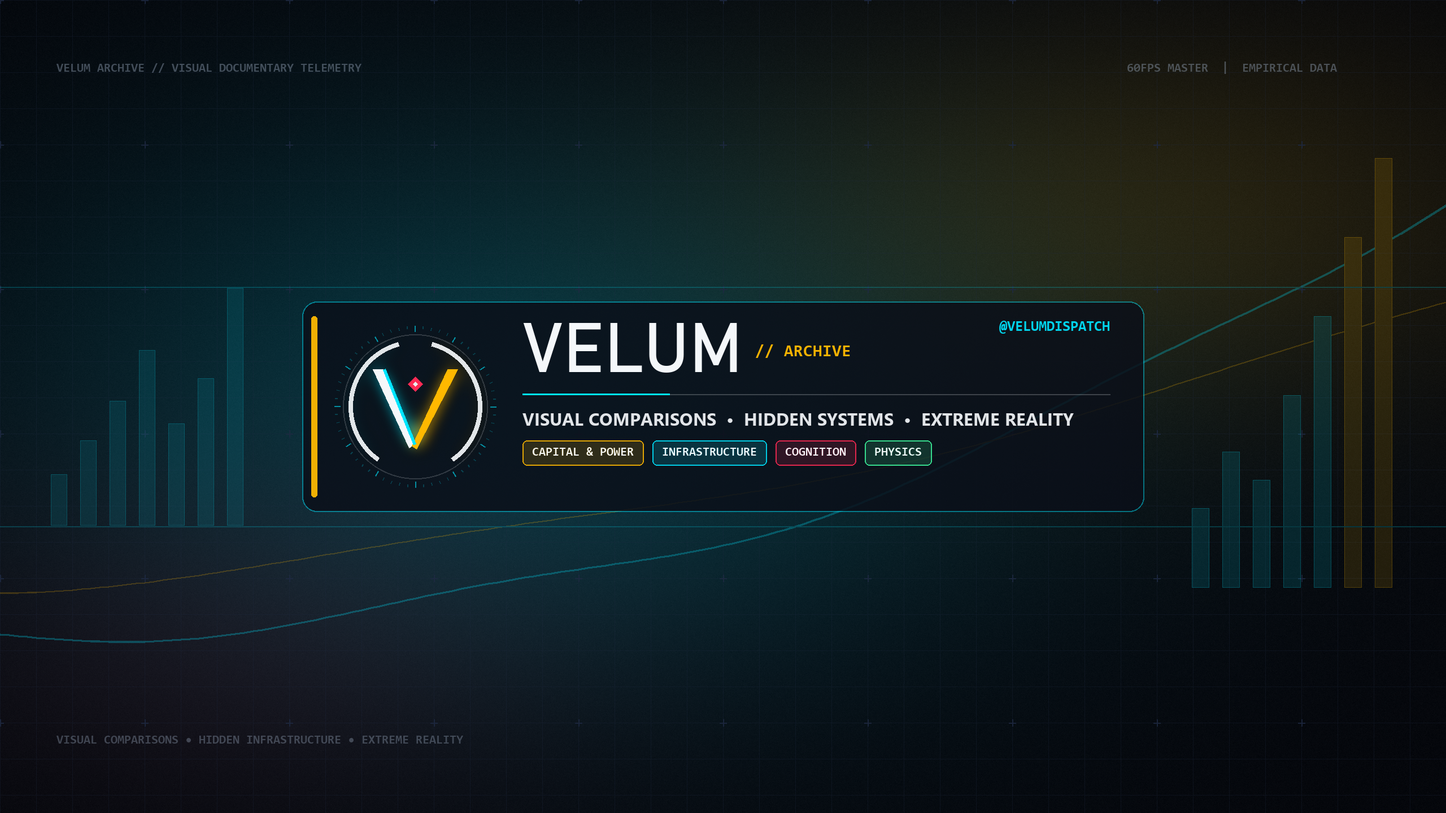
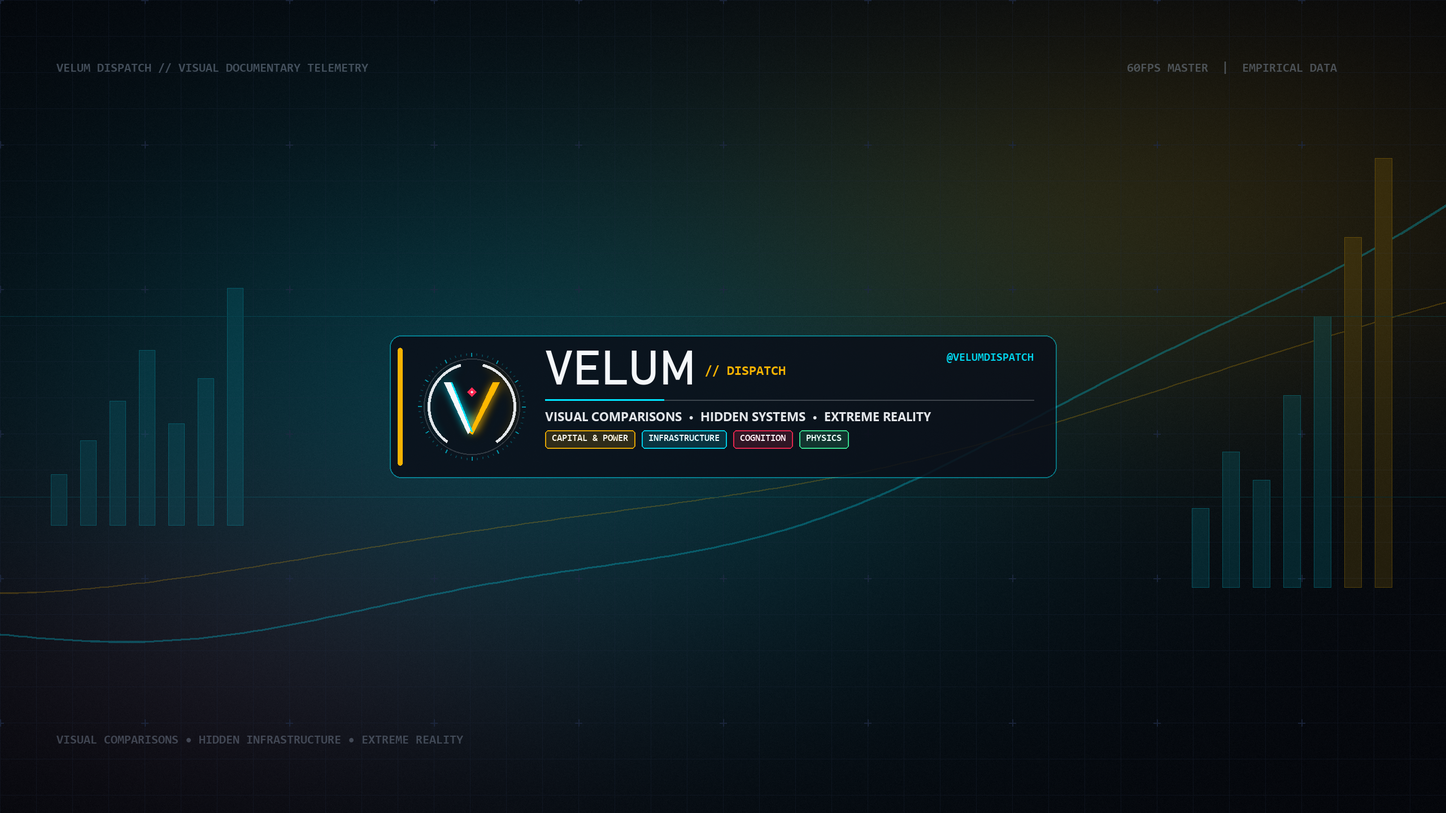
feat: rebrand to VELUM, resolve 5 CI/production bugs, add 24-topic engine & English README

Changed region(s): [[0.1875, 0.3438, 0.7812, 0.6562], [0.0625, 0.0625, 0.25, 0.0938], [0.5625, 0.625, 0.5938, 0.6562]]

diff --git a/publisher/youtube_uploader.py b/publisher/youtube_uploader.py
@@ -29,6 +29,11 @@ from core.config import (
     load_brand_config,
 )
 from core.state_db import StateDB
+from publisher.omni_seo import (
+    TARGET_CAPTION_LANGS,
+    _translate_lines_batch_free,
+    generate_video_localizations,
+)
 
 logger = get_logger("youtube_uploader")
 
@@ -150,7 +155,7 @@ def sync_channel_branding(youtube, state_db: StateDB, force: bool = False) -> Di
         "watermark_uploaded": False,
         "metadata_updated": False,
     }
-    if not force and state_db.get_meta("channel_branding_synced") == "true":
+    if not force and state_db.get_meta("channel_branding_synced") == "v2":
         return result
 
     brand = load_brand_config()
@@ -189,20 +194,41 @@ def sync_channel_branding(youtube, state_db: StateDB, force: bool = False) -> Di
             except Exception as exc:
                 logger.warning("Channel banner API insert error (%s)", exc)
 
-        # 2. Update Channel Description (Bio), Keywords, and Country (TR)
-        ch_settings["description"] = brand.get("seo_bio", "")[:990]
+        # 2. Update Channel Description (Bio), Keywords, Country (TR) & 10-Language Regional Localizations
+        bio_en = brand.get("seo_bio", "")[:990]
+        ch_title = brand.get("channel_name", "Velum Dispatch")
+        ch_settings["description"] = bio_en
         kw_list = brand.get("seo_keywords", [])
         ch_settings["keywords"] = " ".join(f'"{k}"' if " " in k else k for k in kw_list)[:490]
         ch_settings["country"] = "TR"
         ch_settings["defaultLanguage"] = "en"
         branding["channel"] = ch_settings
 
+        ch_localizations: Dict[str, Dict[str, str]] = {"en": {"title": ch_title, "description": bio_en}}
+        for lang_code in TARGET_CAPTION_LANGS:
+            if lang_code == "en":
+                continue
+            tr_bio = _translate_lines_batch_free([bio_en], lang_code)
+            ch_localizations[lang_code] = {
+                "title": ch_title,
+                "description": (tr_bio[0] if tr_bio else bio_en)[:990],
+            }
+
         youtube.channels().update(
-            part="brandingSettings",
-            body={"id": channel_id, "brandingSettings": branding},
+            part="brandingSettings,localizations",
+            body={
+                "id": channel_id,
+                "brandingSettings": branding,
+                "localizations": ch_localizations,
+            },
         ).execute()
         result["metadata_updated"] = True
-        logger.info("Applied channel brandingSettings (Banner + Bio + Keywords + Country=TR) on %s", channel_id)
+        result["channel_languages"] = list(ch_localizations.keys())
+        logger.info(
+            "Applied channel brandingSettings + %d regional language localizations on %s",
+            len(ch_localizations),
+            channel_id,
+        )
 
         # 3. Upload 150x150 RGBA Video Watermark via watermarks().set
         if watermark_path.exists():
@@ -220,8 +246,40 @@ def sync_channel_branding(youtube, state_db: StateDB, force: bool = False) -> Di
             except Exception as exc:
                 logger.warning("Channel watermark API upload error (%s)", exc)
 
+        # 4. Retro-apply 10-language regional Title & Description localizations to recent uploaded videos
+        for vid in state_db.get_all_videos()[:5]:
+            yt_id = vid.get("youtube_id")
+            if not yt_id:
+                continue
+            try:
+                v_resp = youtube.videos().list(part="snippet,localizations", id=yt_id).execute()
+                v_items = v_resp.get("items", [])
+                if not v_items:
+                    continue
+                v_snip = v_items[0]["snippet"]
+                v_snip["defaultLanguage"] = "en"
+                v_snip["defaultAudioLanguage"] = "en"
+                v_locs = generate_video_localizations(
+                    v_snip.get("title", ""), v_snip.get("description", "")
+                )
+                v_locs["en"] = {
+                    "title": v_snip.get("title", "")[:95],
+                    "description": v_snip.get("description", "")[:4900],
+                }
+                youtube.videos().update(
+                    part="snippet,localizations",
+                    body={"id": yt_id, "snippet": v_snip, "localizations": v_locs},
+                ).execute()
+                logger.info(
+                    "Applied %d regional language Title/Description localizations to video %s",
+                    len(v_locs),
+                    yt_id,
+                )
+            except Exception as exc:
+                logger.warning("Video localization update skipped for %s (%s)", yt_id, exc)
+
         if result["banner_uploaded"] and result["metadata_updated"]:
-            state_db.set_meta("channel_branding_synced", "true")
+            state_db.set_meta("channel_branding_synced", "v2")
     except Exception as exc:
         logger.warning("Channel branding sync skipped (%s)", exc)
 
@@ -292,6 +350,11 @@ def upload_video_package(
         branding_sync = sync_channel_branding(youtube, state_db)
         manifest["channel_branding_sync"] = branding_sync
 
+        loc_map = dict(seo_package.get("localizations", {}))
+        loc_map["en"] = {
+            "title": primary_title,
+            "description": seo_package["description_full"][:4950],
+        }
         body = {
             "snippet": {
                 "title": primary_title,
@@ -308,11 +371,17 @@ def upload_video_package(
                 "embeddable": True,
                 "publicStatsViewable": True,
             },
+            "localizations": loc_map,
         }
 
-        logger.info("Uploading %s to YouTube (scheduled publishAt=%s)...", video_path.name, publish_at)
+        logger.info(
+            "Uploading %s to YouTube (scheduled publishAt=%s, %d regional languages)...",
+            video_path.name,
+            publish_at,
+            len(loc_map),
+        )
         media = MediaFileUpload(str(video_path), mimetype="video/mp4", resumable=True, chunksize=8 * 1024 * 1024)
-        request = youtube.videos().insert(part="snippet,status", body=body, media_body=media)
+        request = youtube.videos().insert(part="snippet,status,localizations", body=body, media_body=media)
 
         response = None
         while response is None:
@@ -335,7 +404,18 @@ def upload_video_package(
                 logger.warning("Thumbnail upload skipped/deferred (%s)", type(exc).__name__)
 
         # 2. Upload multi-language `.srt` caption tracks
-        lang_names = {"en": "English", "tr": "Türkçe", "es": "Español", "de": "Deutsch", "fr": "Français"}
+        lang_names = {
+            "en": "English",
+            "tr": "Türkçe",
+            "es": "Español",
+            "de": "Deutsch",
+            "fr": "Français",
+            "pt": "Português",
+            "ar": "العربية",
+            "hi": "हिन्दी",
+            "ja": "日本語",
+            "ko": "한국어",
+        }
         for lang_code, srt_file in seo_package.get("subtitles_srt", {}).items():
             if not Path(srt_file).exists():
                 continue

diff --git a/brand_kit/generate_brand_kit.py b/brand_kit/generate_brand_kit.py
@@ -289,51 +289,52 @@ def render_banner(output_path: Path, brand: Dict) -> Path:
         col = amber if idx >= 5 else cyan
         bdraw.rectangle([bx, 1040 - bh, bx + 30, 1040], fill=(*col, 30), outline=(*col, 78), width=1)
 
-    bdraw.line([(0, 508), (w, 508)], fill=(*cyan, 50), width=2)
-    bdraw.line([(0, 932), (w, 932)], fill=(*cyan, 50), width=2)
+    bdraw.line([(0, 560), (w, 560)], fill=(*cyan, 38), width=1)
+    bdraw.line([(0, 880), (w, 880)], fill=(*cyan, 38), width=1)
 
     mono_sm = _load_font("mono", 22)
-    bdraw.text((100, 110), "VELUM ARCHIVE // VISUAL DOCUMENTARY TELEMETRY", fill=(*muted, 110), font=mono_sm)
+    bdraw.text((100, 110), "VELUM DISPATCH // VISUAL DOCUMENTARY TELEMETRY", fill=(*muted, 110), font=mono_sm)
     bdraw.text((1995, 110), "60FPS MASTER  |  EMPIRICAL DATA", fill=(*muted, 110), font=mono_sm)
     bdraw.text((100, 1300), "VISUAL COMPARISONS • HIDDEN INFRASTRUCTURE • EXTREME REALITY", fill=(*muted, 95), font=mono_sm)
     canvas.alpha_composite(bg_overlay)
 
-    # Universal safe-area frosted studio panel (x=535..2025, y=534..906)
+    # Compact dead-center ribbon layout (x=720..1860, y=600..840 -> 240px tall)
+    # Guaranteed zero vertical or horizontal clipping even on narrow split-screen viewports!
     panel = Image.new("RGBA", (w, h), (0, 0, 0, 0))
     pdraw = ImageDraw.Draw(panel)
     pdraw.rounded_rectangle(
-        [535, 534, 2025, 906],
-        radius=26,
-        fill=(10, 14, 24, 212),
-        outline=(*cyan, 115),
+        [690, 594, 1870, 846],
+        radius=20,
+        fill=(10, 14, 24, 215),
+        outline=(*cyan, 110),
         width=2,
     )
-    pdraw.rounded_rectangle([551, 560, 561, 880], radius=5, fill=(*amber, 240))
+    pdraw.rounded_rectangle([704, 616, 712, 824], radius=4, fill=(*amber, 245))
     canvas.alpha_composite(panel)
 
-    _draw_velum_emblem(canvas, cx=735, cy=720, radius=118, palette=palette)
+    _draw_velum_emblem(canvas, cx=835, cy=720, radius=78, palette=palette)
 
     fg_layer = Image.new("RGBA", (w, h), (0, 0, 0, 0))
     draw = ImageDraw.Draw(fg_layer)
-    font_title = _load_font("headline", 122)
-    font_sub_badge = _load_font("mono", 30)
-    font_tag = _load_font("body", 31)
-    font_pill = _load_font("mono", 22)
-    font_handle = _load_font("mono", 26)
+    font_title = _load_font("headline", 84)
+    font_sub_badge = _load_font("mono", 24)
+    font_tag = _load_font("body", 22)
+    font_pill = _load_font("mono", 17)
+    font_handle = _load_font("mono", 20)
 
-    tx = 925
-    ty = 562
+    tx = 965
+    ty = 614
 
     draw.text((tx, ty), "VELUM", font=font_title, fill=(*white, 255))
     w1 = draw.textbbox((tx, ty), "VELUM", font=font_title)[2]
-    draw.text((w1 + 22, ty + 46), "// ARCHIVE", font=font_sub_badge, fill=(*amber, 245))
+    draw.text((w1 + 16, ty + 32), "// DISPATCH", font=font_sub_badge, fill=(*amber, 245))
 
-    div_y = ty + 136
-    draw.line([(tx, div_y), (1965, div_y)], fill=(*white, 55), width=2)
-    draw.line([(tx, div_y), (tx + 260, div_y)], fill=(*cyan, 255), width=3)
+    div_y = ty + 94
+    draw.line([(tx, div_y), (1830, div_y)], fill=(*white, 55), width=2)
+    draw.line([(tx, div_y), (tx + 210, div_y)], fill=(*cyan, 255), width=3)
 
     tagline = "VISUAL COMPARISONS  •  HIDDEN SYSTEMS  •  EXTREME REALITY"
-    draw.text((tx, div_y + 22), tagline, font=font_tag, fill=(*white, 235))
+    draw.text((tx, div_y + 14), tagline, font=font_tag, fill=(*white, 235))
 
     pills = [
         ("CAPITAL & POWER", amber),
@@ -342,24 +343,24 @@ def render_banner(output_path: Path, brand: Dict) -> Path:
         ("PHYSICS", emerald),
     ]
     px = tx
-    py = div_y + 82
+    py = div_y + 54
     for label, col in pills:
         tb = draw.textbbox((0, 0), label, font=font_pill)
-        pw = (tb[2] - tb[0]) + 34
-        ph = 44
+        pw = (tb[2] - tb[0]) + 24
+        ph = 32
         draw.rounded_rectangle(
             [px, py, px + pw, py + ph],
-            radius=8,
+            radius=6,
             fill=(col[0], col[1], col[2], 38),
             outline=(*col, 225),
             width=2,
         )
-        draw.text((px + 17, py + 10), label, font=font_pill, fill=(*white, 255))
-        px += pw + 16
+        draw.text((px + 12, py + 6), label, font=font_pill, fill=(*white, 255))
+        px += pw + 12
 
     handle_text = brand["handle"].upper()
     hb = draw.textbbox((0, 0), handle_text, font=font_handle)
-    draw.text((1965 - (hb[2] - hb[0]), 566), handle_text, font=font_handle, fill=(*cyan, 235))
+    draw.text((1830 - (hb[2] - hb[0]), 624), handle_text, font=font_handle, fill=(*cyan, 235))
 
     canvas.alpha_composite(fg_layer)
     final = canvas.convert("RGB")

diff --git a/publisher/omni_seo.py b/publisher/omni_seo.py
@@ -30,6 +30,11 @@ TARGET_CAPTION_LANGS = {
     "es": "Spanish",
     "de": "German",
     "fr": "French",
+    "pt": "Portuguese",
+    "ar": "Arabic",
+    "hi": "Hindi",
+    "ja": "Japanese",
+    "ko": "Korean",
 }
 
 
@@ -340,6 +345,31 @@ def _build_native_omni_seo(
     }
 
 
+def generate_video_localizations(
+    primary_title: str,
+    description_full: str,
+) -> Dict[str, Dict[str, str]]:
+    """Build YouTube API `localizations` (regional native Title & Description) across 10 languages."""
+    # Extract concise 3-paragraph summary + hashtags for localized regional descriptions
+    paragraphs = [p.strip() for p in description_full.split("\n\n") if p.strip()]
+    core_excerpt = "\n\n".join(paragraphs[:3])[:1200]
+    hashtags_line = paragraphs[-1] if paragraphs and paragraphs[-1].startswith("#") else "#VelumArchive #Shorts"
+
+    localizations: Dict[str, Dict[str, str]] = {}
+    for lang_code in TARGET_CAPTION_LANGS:
+        if lang_code == "en":
+            continue
+        tr_lines = _translate_lines_batch_free([primary_title, core_excerpt], lang_code)
+        loc_title = (tr_lines[0] if tr_lines else primary_title)[:95].strip()
+        loc_desc = (tr_lines[1] if len(tr_lines) > 1 else core_excerpt).strip()
+        localizations[lang_code] = {
+            "title": loc_title or primary_title[:95],
+            "description": f"{loc_title}\n\n{loc_desc}\n\n{hashtags_line}"[:4900],
+        }
+    logger.info("Built regional Title & Description localizations for %d languages", len(localizations))
+    return localizations
+
+
 def generate_omni_seo_package(
     topic: Dict[str, Any],
     script: Dict[str, Any],
@@ -381,6 +411,9 @@ def generate_omni_seo_package(
     srt_tracks = generate_multilang_srt_tracks(
         voice_data.get("timed_beats", []), out_dir, slug, llm=llm
     )
+    localizations = generate_video_localizations(
+        package["titles_ab"][0], package["description_full"]
+    )
 
     word_count = len(package["description_full"].split())
     full_seo = {
@@ -391,6 +424,7 @@ def generate_omni_seo_package(
         "seo_description_word_count": word_count,
         "titles_ab": package["titles_ab"],
         "description_full": package["description_full"],
+        "localizations": localizations,
         "geo_summary_bullets": package["geo_summary_bullets"],
         "aeo_faq": package["aeo_faq"],
         "pinned_comment": package["pinned_comment"],
